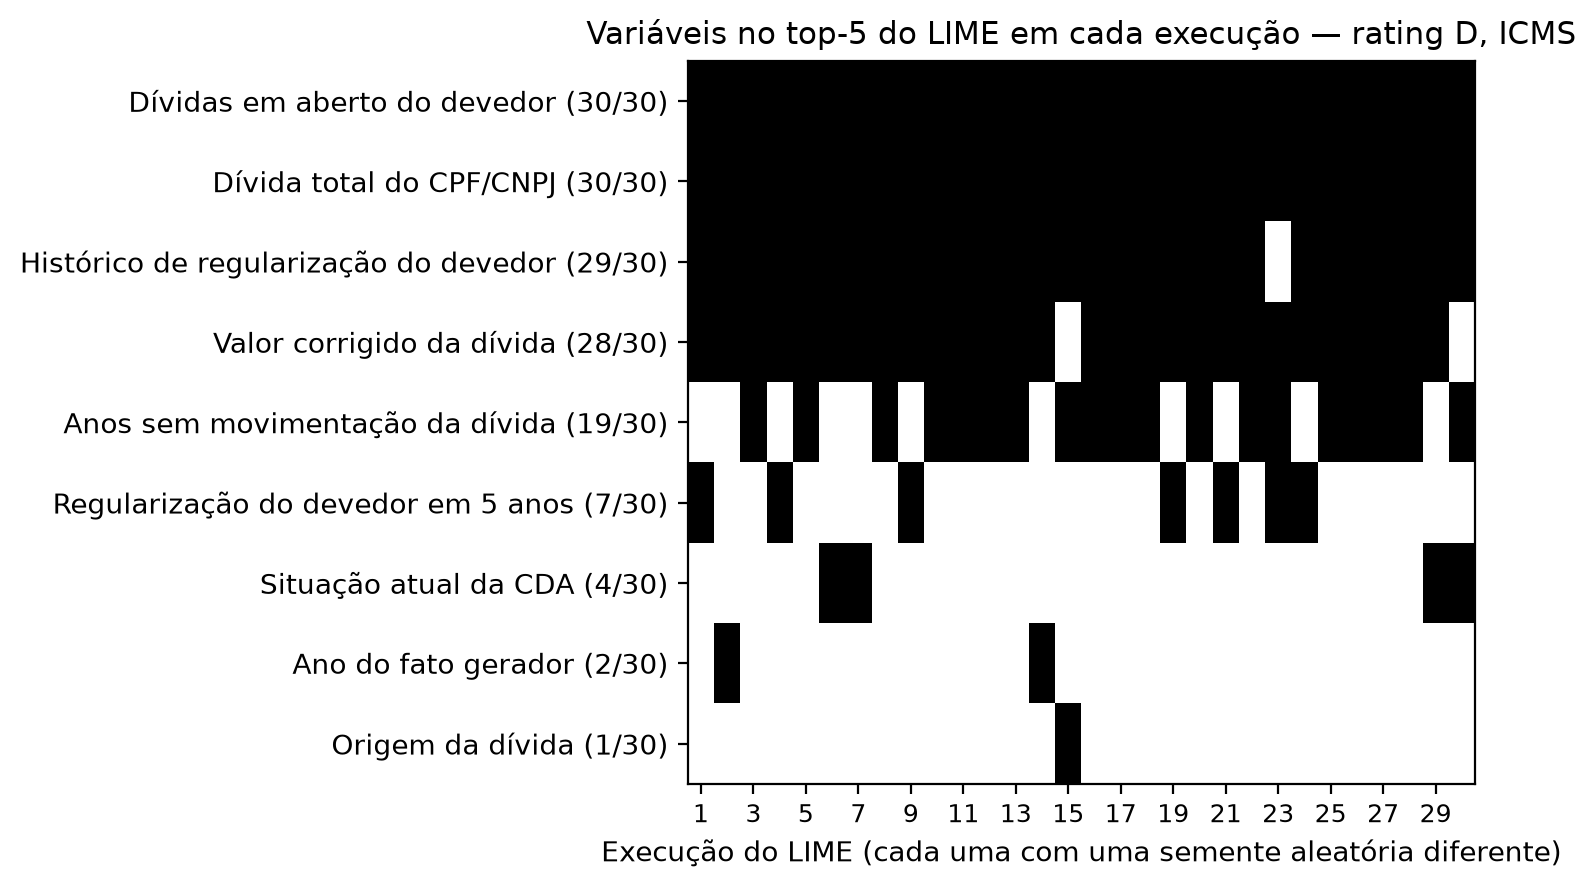
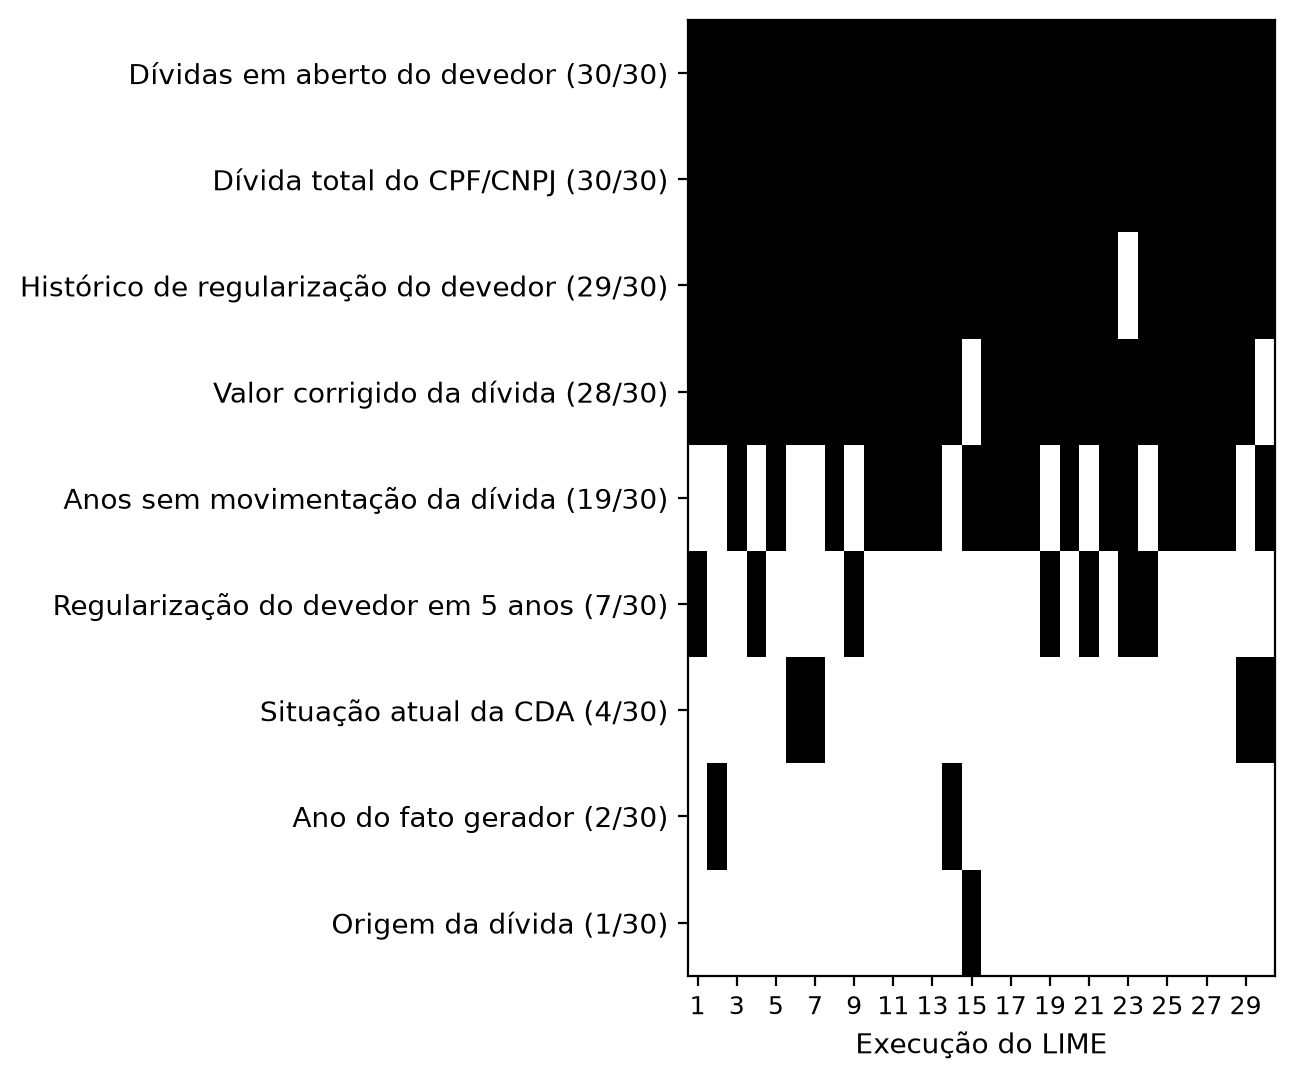
Amplia figuras 10 e 11 para a largura do texto

Changed region(s): [[0.0, 0.0, 0.9884, 0.973], [0.9575, 0.6081, 0.9884, 0.7297], [0.8649, 0.2128, 0.8958, 0.3345]]

diff --git a/editaveis/resultadosanalise.tex b/editaveis/resultadosanalise.tex
@@ -110,7 +110,7 @@ Além da comparação direta com SHAP, a estabilidade do LIME foi examinada em t
 
 \begin{figure}[H]
     \centering
-    \includegraphics[width=0.92\textwidth]{figuras/xai/lime_stability_heatmap_rating_D_icms.png}
+    \includegraphics[width=\textwidth]{figuras/xai/lime_stability_heatmap_rating_D_icms.png}
     \caption[Estabilidade do \textit{top-5} do LIME em 30 execuções para uma CDA de \textit{rating} D no ICMS]{Estabilidade das explicações do LIME para uma mesma CDA sintética de \textit{rating} D no ICMS, explicada 30 vezes com sementes aleatórias de 42 a 71 (eixo horizontal). Cada linha é uma variável, e uma célula preta indica que, naquela execução, a variável ficou entre as cinco mais importantes; o número entre parênteses informa em quantas das 30 execuções isso ocorreu. Linhas totalmente pretas são fatores que o LIME identifica sempre; linhas intermitentes revelam fatores que entram e saem da explicação apenas por efeito da amostragem aleatória. Neste caso, quatro variáveis aparecem em pelo menos 28 das 30 execuções, enquanto a quinta posição alterna entre outras cinco.}
     \label{fig:lime_heatmap_icms_d}
 
@@ -128,8 +128,8 @@ No estudo de caso principal, o notebook do \textit{framework} do auditor foi exe
 
 \begin{figure}[H]
     \centering
-    \includegraphics[width=0.88\textwidth]{figuras/xai/shap_waterfall_rating_D_icms.png}
-    \caption[Explicação SHAP de uma CDA sintética de \textit{rating} D no ICMS]{Explicação SHAP (\textit{waterfall plot}) de uma CDA sintética de \textit{rating} D no ICMS, escolhida por ter a probabilidade mais próxima da mediana da classe. A leitura começa na base do gráfico, no valor esperado do modelo, $E[f(X)] = -1{,}467$, que corresponde à CDA média. Cada barra soma a contribuição de uma variável, cujo valor nesta CDA aparece à esquerda, antes do nome: barras azuis reduzem a chance de pagamento, e barras vermelhas a aumentam. O topo, $f(x) = -3{,}601$, é a saída final do modelo, equivalente a uma probabilidade normalizada de 0,022, abaixo do limite de 0,03 da classe D. Os valores estão na escala interna do modelo (logaritmo da razão de chances). As três maiores contribuições negativas vêm do grande número de dívidas abertas no núcleo do contribuinte (157), do alto valor total devido pelo CPF ou CNPJ e da ausência de histórico de regularização.}
+    \includegraphics[width=\textwidth]{figuras/xai/shap_waterfall_rating_D_icms.png}
+    \caption[Explicação SHAP de uma CDA sintética de \textit{rating} D no ICMS]{Explicação SHAP (gráfico de cascata) de uma CDA sintética de \textit{rating} D no ICMS, escolhida por ter a probabilidade mais próxima da mediana da classe. A leitura começa na base do gráfico, na linha tracejada do valor esperado do modelo ($-1{,}467$), que corresponde à CDA média, e sobe barra a barra. Cada barra é a contribuição de uma variável, cujo valor nesta CDA aparece abaixo do nome: barras azuis reduzem a chance de pagamento, e barras vermelhas a aumentam. A linha tracejada do topo ($-3{,}601$) é a saída final do modelo para esta CDA, equivalente a uma probabilidade normalizada de 0,022, abaixo do limite de 0,03 da classe D. Os valores estão na escala interna do modelo (logaritmo da razão de chances). As três maiores contribuições negativas vêm do grande número de dívidas em aberto do devedor (157), do alto valor total devido pelo CPF ou CNPJ e da ausência de histórico de regularização.}
     \label{fig:waterfall_icms_d}
 
 \end{figure}
